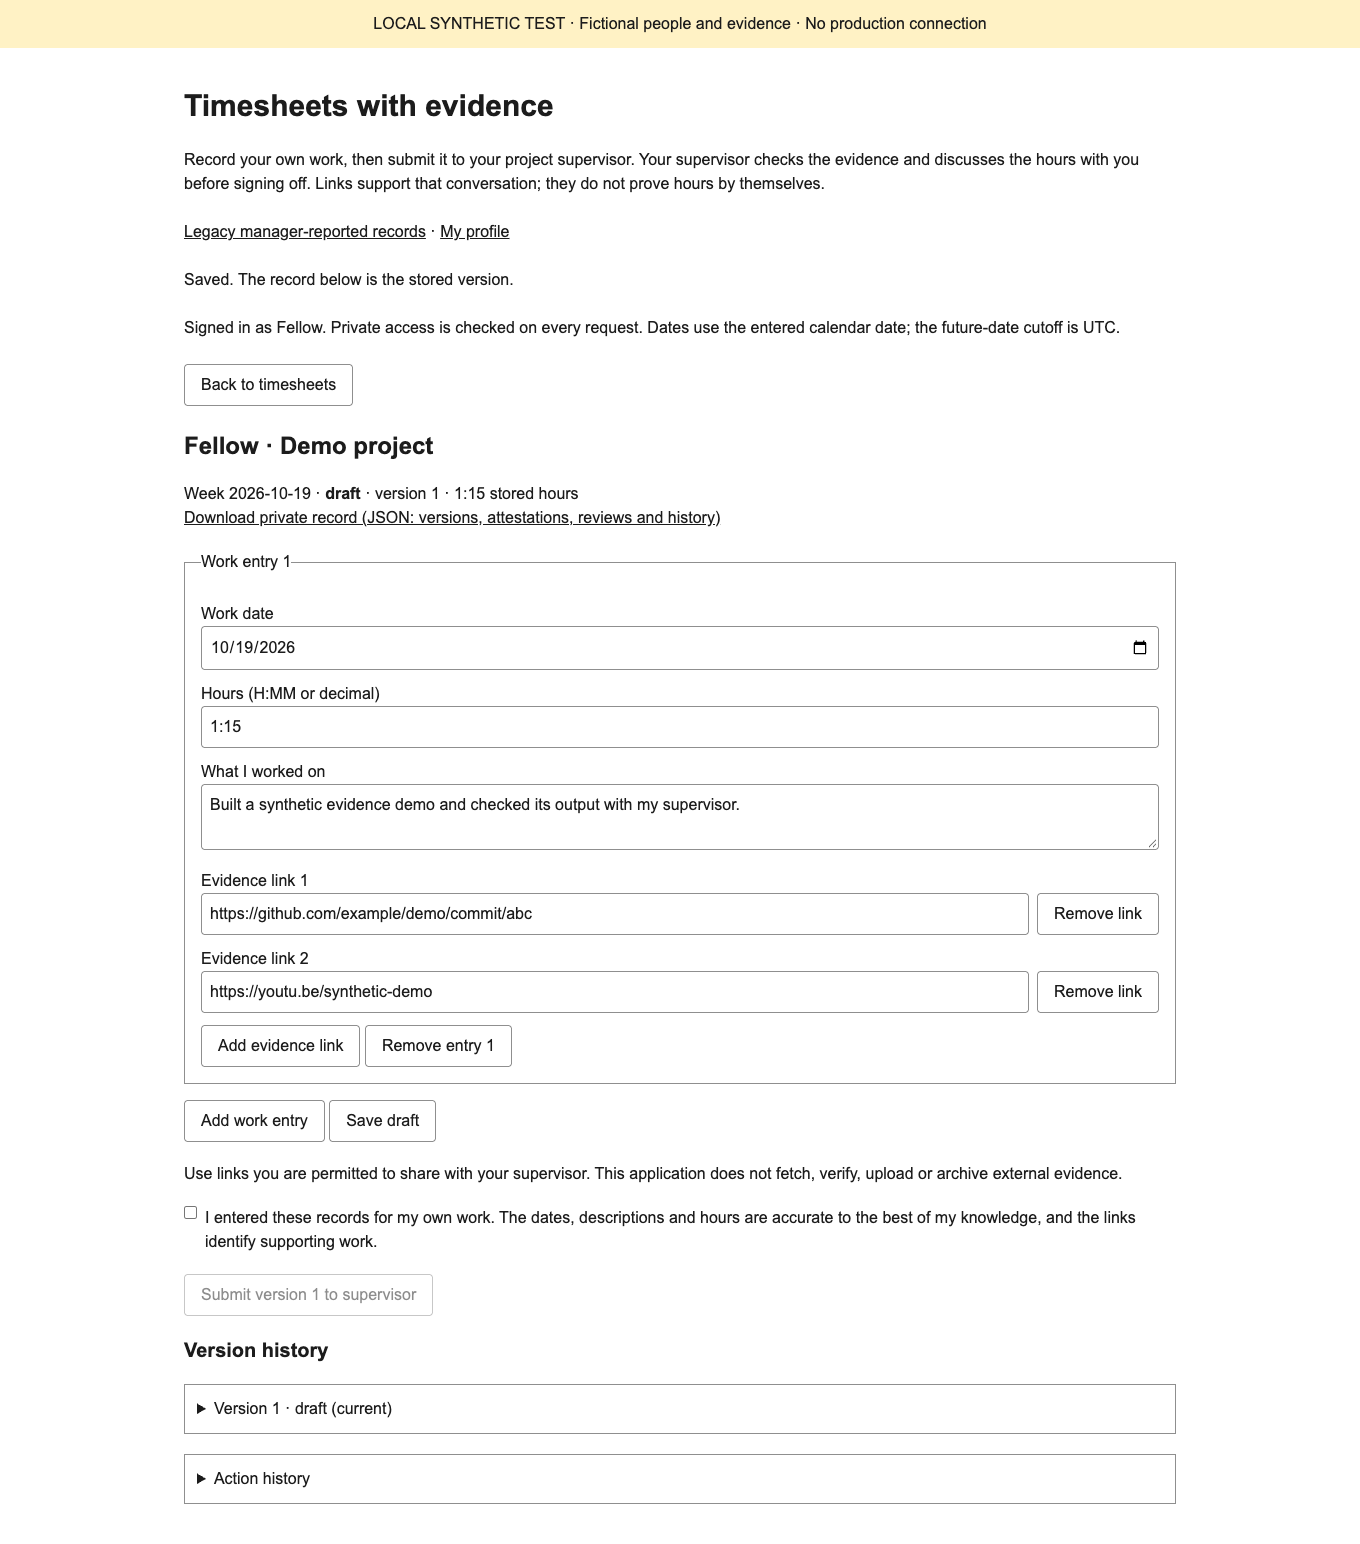
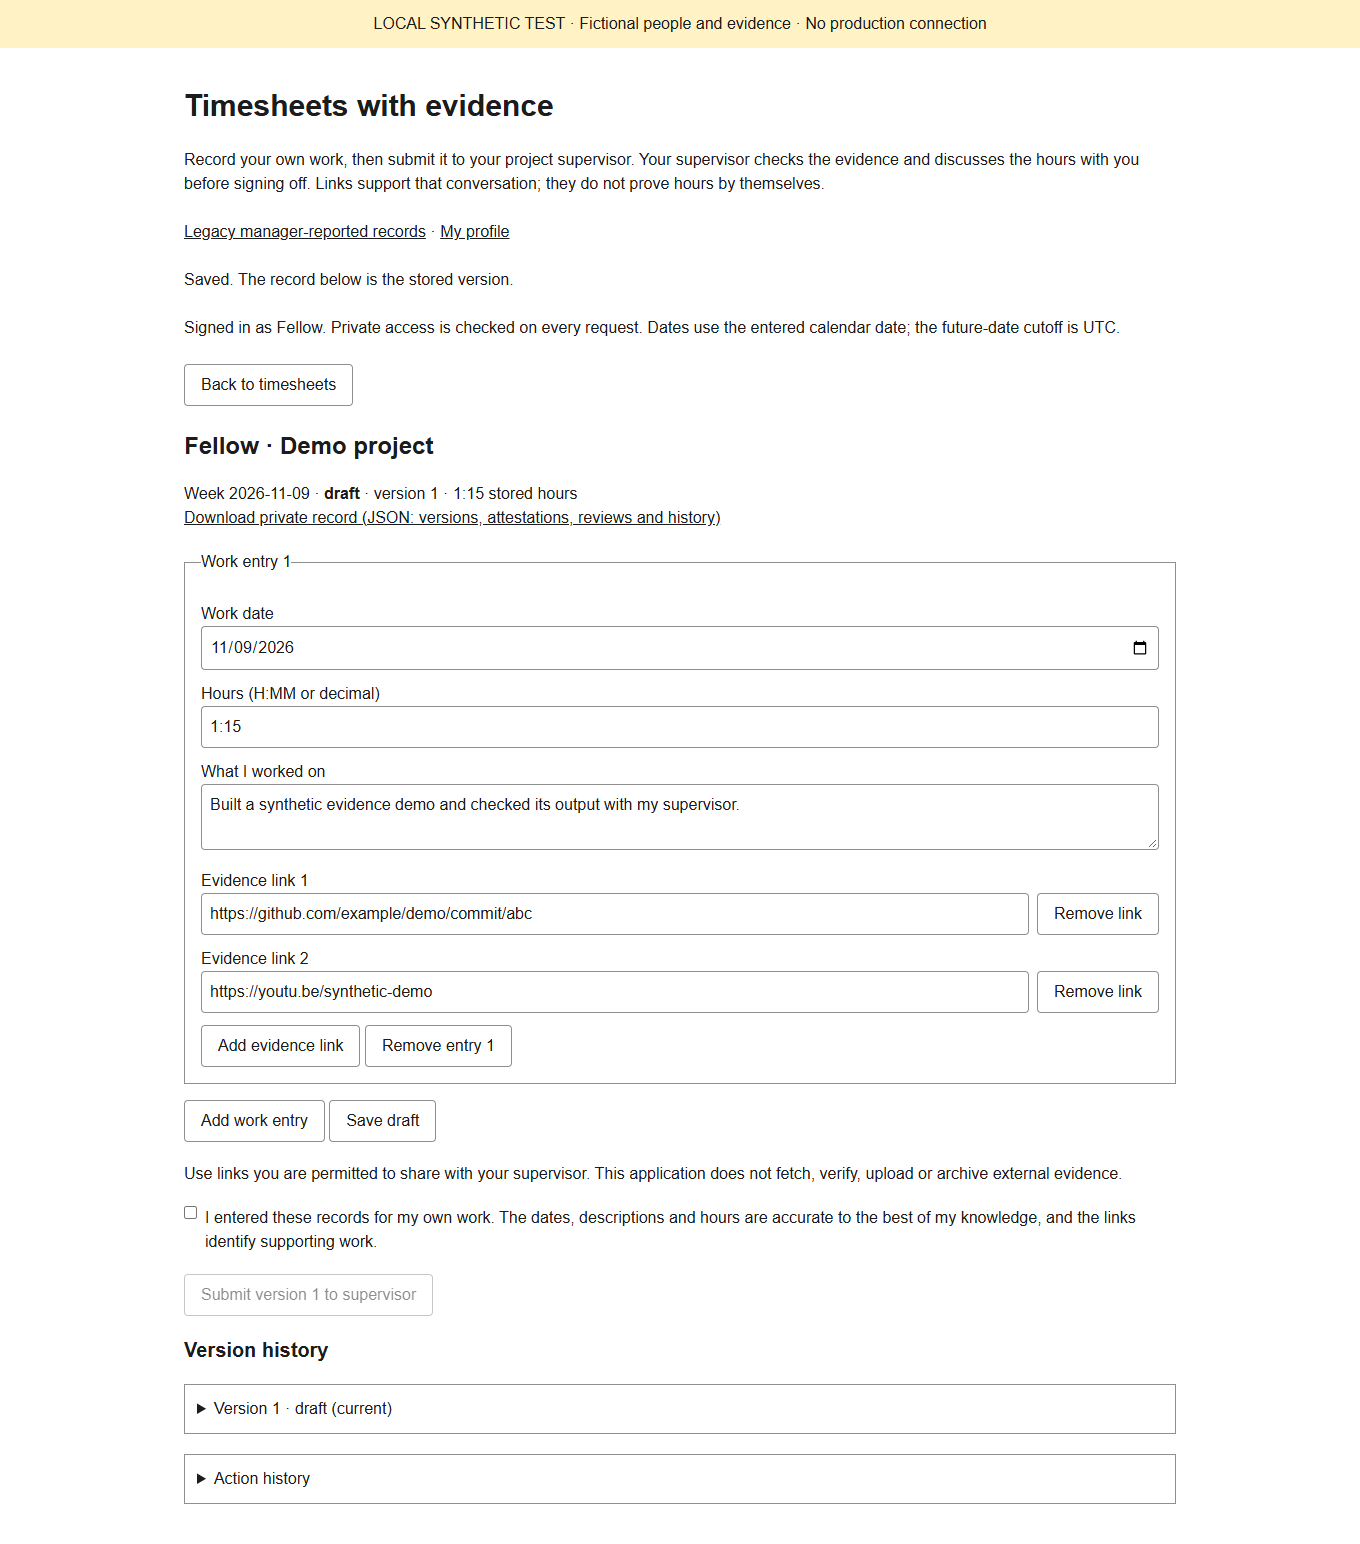
End-to-end timesheet test report, browser run extended, timesheets CI
- tests/timesheets/browser-smoke.mts now also covers real password sign-in
  (wrong password refused), self-approval (no review controls for a PM's own
  timesheet; direct API approval refused), the 24-hour cross-project limit
  (refused with the day and total named) and the "My hours" summary.
  Runs on Windows too (Tailwind CLI via node, default Chrome path) and
  forwards each Set-Cookie separately in the harness.
- New screenshots 08-self-approval-blocked, 09-daily-limit, 10-my-hours;
  01-04 regenerated.
- .github/workflows/timesheets.yml: test:timesheets, typecheck:timesheets and
  the browser run on every PR to main; screenshots uploaded as an artifact.
- docs/timesheets/TEST-REPORT.md: results per flow Nik listed, and what is
  not covered yet (staging).

test:timesheets 70/70, test:developer-access 25/25, both typechecks clean,
browser run PASS with zero page errors.

diff --git a/docs/timesheets/TEST-REPORT.md b/docs/timesheets/TEST-REPORT.md
@@ -1,0 +1,44 @@
+# PR #16 test report
+
+**Date:** 2026-11-13. **Branch:** `timesheets/daily-hours-and-summary`.
+**Environment:** local only. Synthetic in-memory PostgreSQL (PGlite) with the real migration files. Real Next.js route handlers, and the real React timesheet screen in headless Chrome. Fictional people and evidence.
+
+No staging or production database was used; staging is point 3 and is still pending.
+
+## Results
+
+| Suite | Command | Result |
+|---|---|---|
+| Timesheets (API, database, security, migrations, identity admin) | `npm run test:timesheets` | **70 / 70 pass** |
+| Developer access | `npm run test:developer-access` | **25 / 25 pass** |
+| Timesheets typecheck | `npm run typecheck:timesheets` | **clean** |
+| Developer-access typecheck | `npm run typecheck:developer-access` | **clean** |
+| End-to-end in the browser | `npm run test:timesheets:browser` | **pass, 0 page errors** |
+| Production build | `npm run build` | **compiles** |
+| GitHub CI | *Developer access regression* (existing) and *Timesheets regression* (new: tests, typecheck and the browser run) | Both run on every PR to `main` |
+
+## What Nik asked to be exercised
+
+| Flow | How it was tested | Result |
+|---|---|---|
+| **Sign-in** | Browser: real `POST /api/fellows/auth/login`. A wrong password is refused (401); the right one issues the work-record session used for the rest of the run | ✅ |
+| **Volunteer submission with evidence** | Browser: create a draft, add hours, a description and 2 evidence links, save, attest, submit | ✅ `01-fellow-draft.png` |
+| **PM returns with a reason** | Browser: the PM returns version 1 with a written reason. The volunteer sees it, writes a correction reason, edits and resubmits version 2 | ✅ |
+| **PM approves** | Browser: approve stays disabled until every entry, the evidence and the discussion are confirmed. After approval, the exported record shows v1 returned, v2 approved and submitted by the volunteer | ✅ `02-supervisor-review.png`, `03-approved-version.png` |
+| **Self-approval denied** | Browser: a PM submits their own timesheet on their own project. The page shows no Approve or Return controls, and a direct approve request through the API is refused, leaving it submitted with no reviewer. The database rule is also covered by `workflow.test.ts` (*self-review denied even when fellow also has PM assignment*) | ✅ `08-self-approval-blocked.png` |
+| **Daily limit across projects** | Browser: the volunteer, already approved for 1:15 on one project, submits 23:00 for the same day on a second project. The submission is refused with *"Your hours on 2026-11-09 add up to 24:15 across all your projects…"* and stays a draft. Database: 3 tests (approved hours count; drafts and returned versions don't; an amendment isn't counted twice) | ✅ `09-daily-limit.png` |
+| **My hours** | Browser: the volunteer sees Approved 1:15, plus waiting, returned and draft totals | ✅ `10-my-hours.png` |
+| **Cross-team privacy** | Browser: a PM of another project sees *No records in this view* | ✅ |
+| **Mobile** | Browser: 390 px wide, no horizontal scroll | ✅ `04-mobile-amendment.png` |
+| **Existing ledger access unchanged (point 1)** | Timesheets off: `/api/ledger/projects` works as on `main`. A developer reads it read-only in both modes and can't write | ✅ `access.test.ts` |
+| **Admin permissions (point 2)** | The shared admin password is refused with no side effects. Without a grant, fellows and PMs are refused. A named identity admin can create (incl. PM role), import, edit, change email/roles and reset passwords, never sees a password, can't change their own account, and can't hard-delete; each change is audited. A grant does nothing while timesheets are off | ✅ `identity-admin.test.ts` (10 tests), `security.test.ts` |
+| **Developer permissions** | Read-only roster and Ledger; account changes denied; Grants read-only; sessions die on password, email or status change | ✅ `access.test.ts` (25 tests) |
+| **Migrations (point 4)** | Preflight, apply, rerun refused, partial detected, website-role grants (refused without, full flow with), rollback refused with data, down/up when empty, legacy data checksums unchanged | ✅ `migrations.test.ts` (8 tests) |
+
+Screenshots are in `docs/timesheets/screenshots/`. CI also uploads them from every run.
+
+## Not covered yet
+
+- **Staging (point 3).** None of this has run against a real Neon database, through Vercel, or on the production domain. The same browser run should be repeated on the isolated staging preview once it exists.
+- Real email delivery for "Forgot password?" (the reset email) was not sent. The tests check that no password is shown and that reset links are the only way to set one.
+- Concurrency is tested on a single database connection, not under parallel production load.
